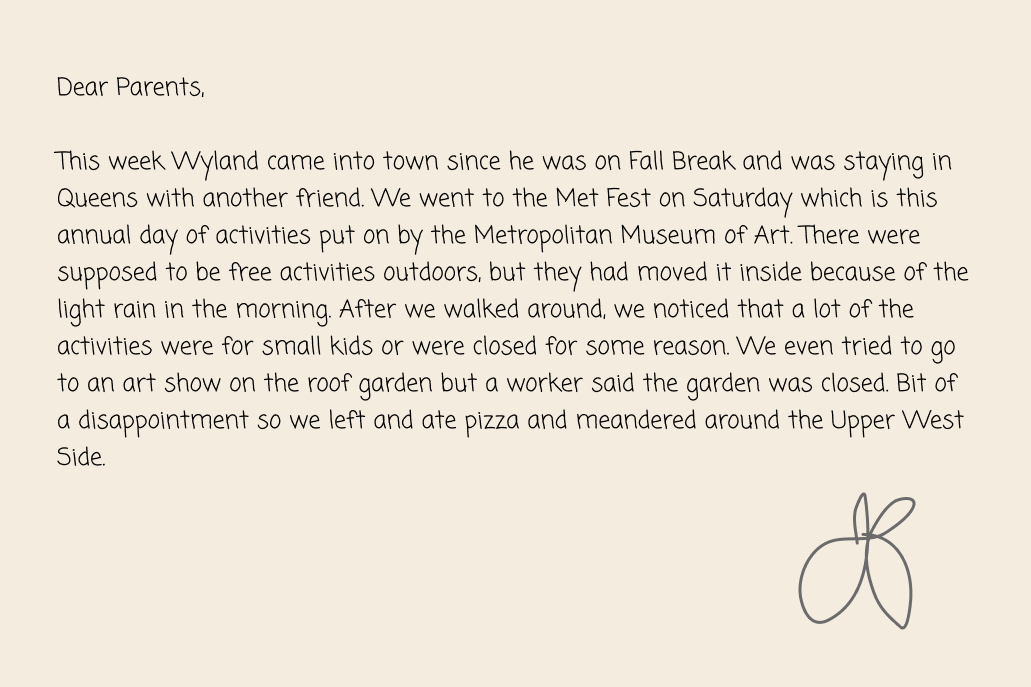
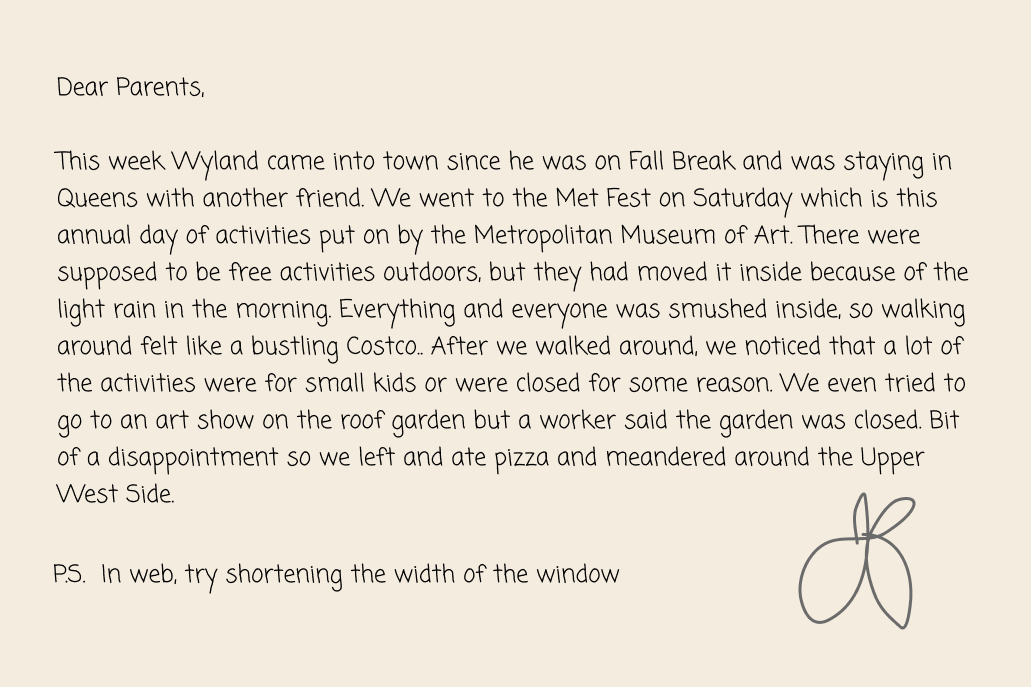
Entry 6 11PM
Edited text in postcard to give context on how to interact with site. Took out blue flexbox borders

Changed region(s): [[0.0621, 0.4279, 0.9311, 0.7336], [0.0621, 0.8253, 0.5897, 0.8559]]

diff --git a/entries/entry6/style.css b/entries/entry6/style.css
@@ -10,7 +10,7 @@ body {
   }
   
 h1 {
-    color: #9B999B;
+    color: #c6bfbf;
     font-family: 'Bowlby One SC';
     font-size: 80px;
     text-align: center;
@@ -34,10 +34,7 @@ h2 {
     max-width: auto;
     max-height: auto;
     /* height: 270px; */
-    /* justify-content: center; */
-    border: 5px;
-    border-style:solid;
-    border-color: aqua;
+    /* justify-content: center; */    
     /* align-content: flex-end; */
     position: relative;
 }
@@ -46,7 +43,6 @@ h2 {
     z-index: 1;
     top: 513.68px;
     left: 267.81px;
-    border: 5px;
     filter: invert(100%);
     }
 
@@ -101,7 +97,7 @@ height: 2205.49;
       }
       
     h1 {
-        color: rgb(81, 81, 81);
+        color: #999397;
         font-family: 'Bowlby One SC';
         font-size: 80px;
         text-align: center;
@@ -122,9 +118,6 @@ height: 2205.49;
         max-height: auto;
         /* height: 270px; */
         /* justify-content: center; */
-        border: 5px;
-        border-style:solid;
-        border-color: aqua;
         /* align-content: flex-end; */
         position: relative;
     }

diff --git a/entries/entry6/index.html b/entries/entry6/index.html
@@ -34,7 +34,7 @@
 
     <div class="card">
         <img src="imgs/postcardb.png">
-        <div><img class="figure:hover" src="imgs/postcardf.png"></div>
+        <div><img src="imgs/postcardf.png"></div>
 
     </div>
 
